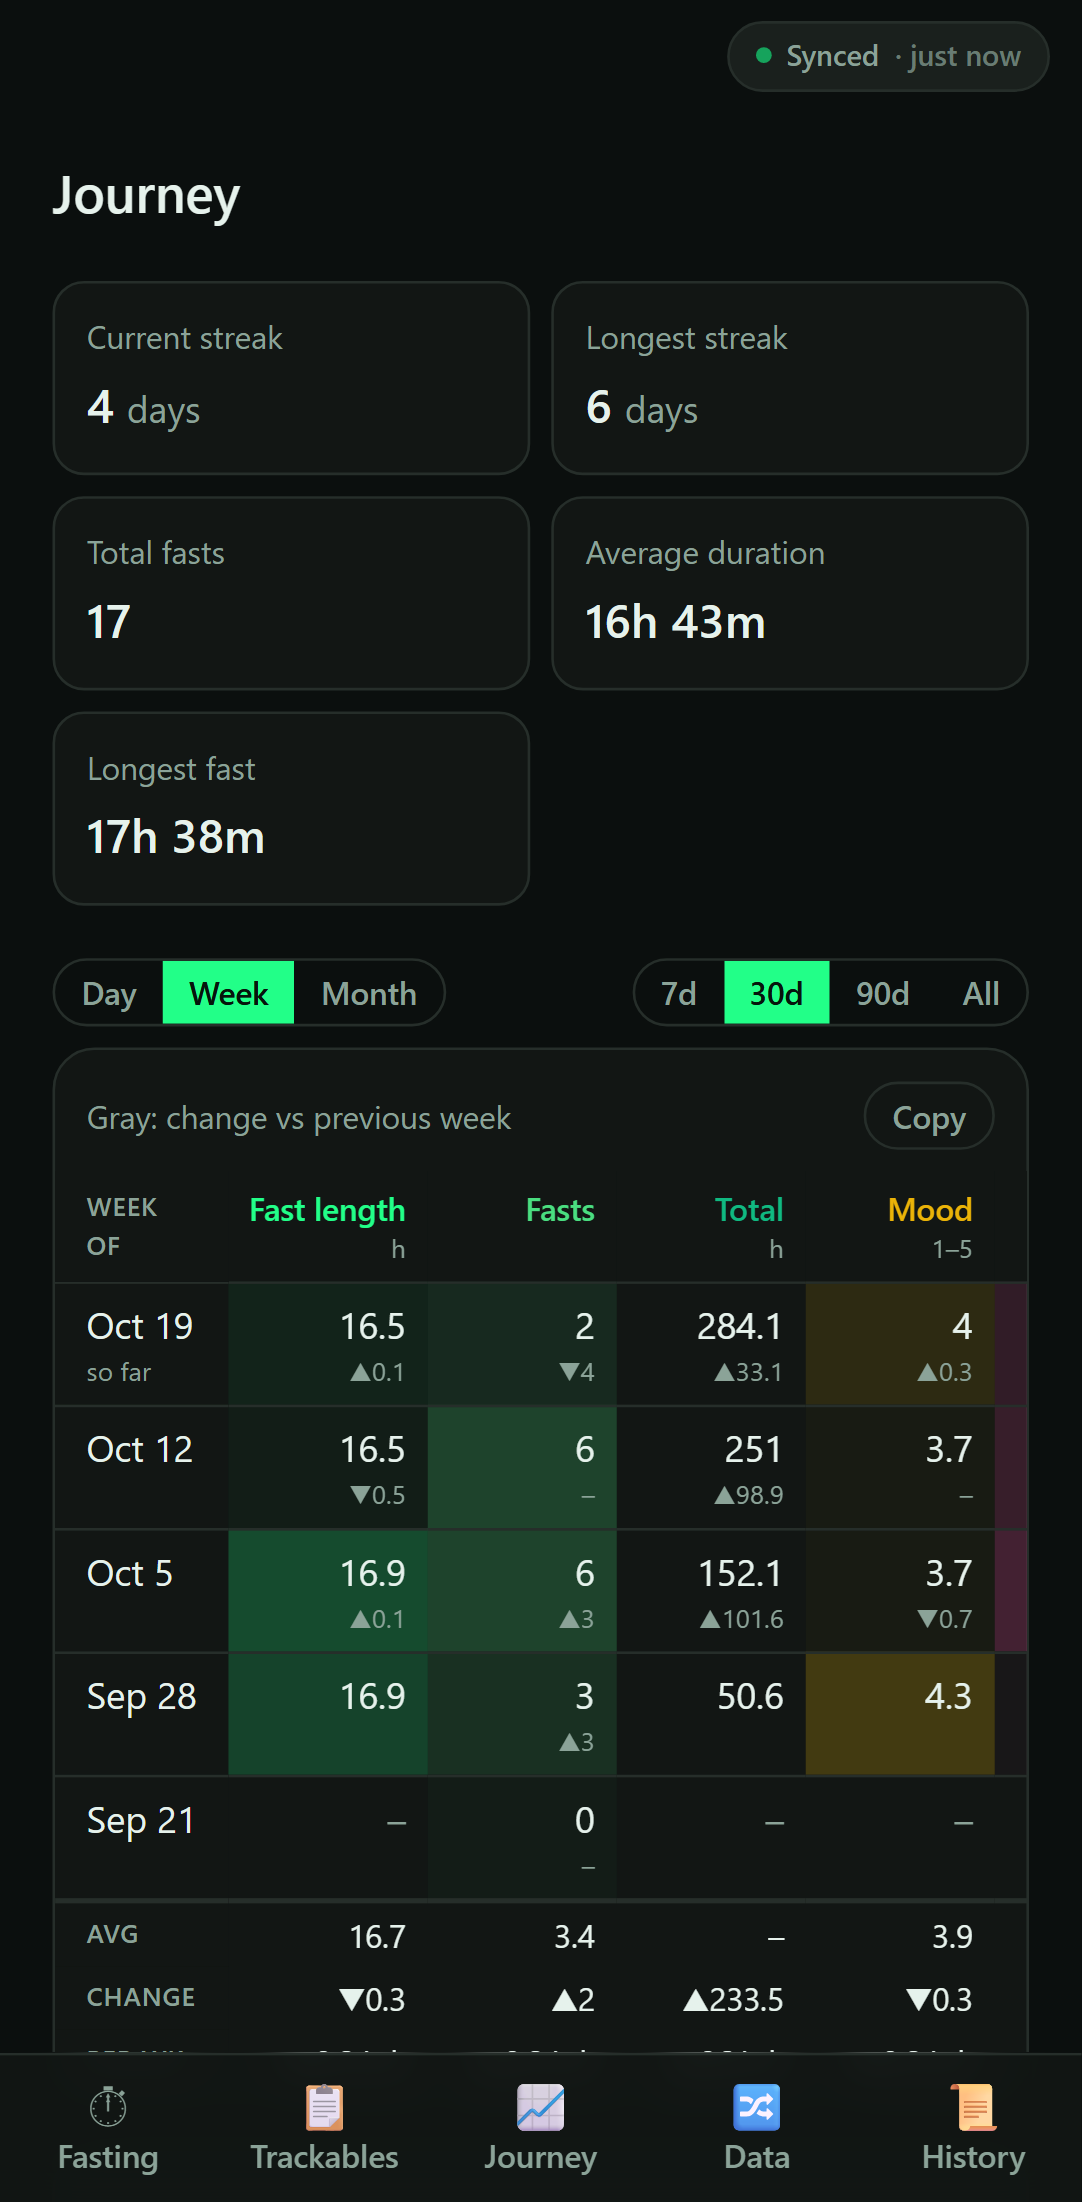
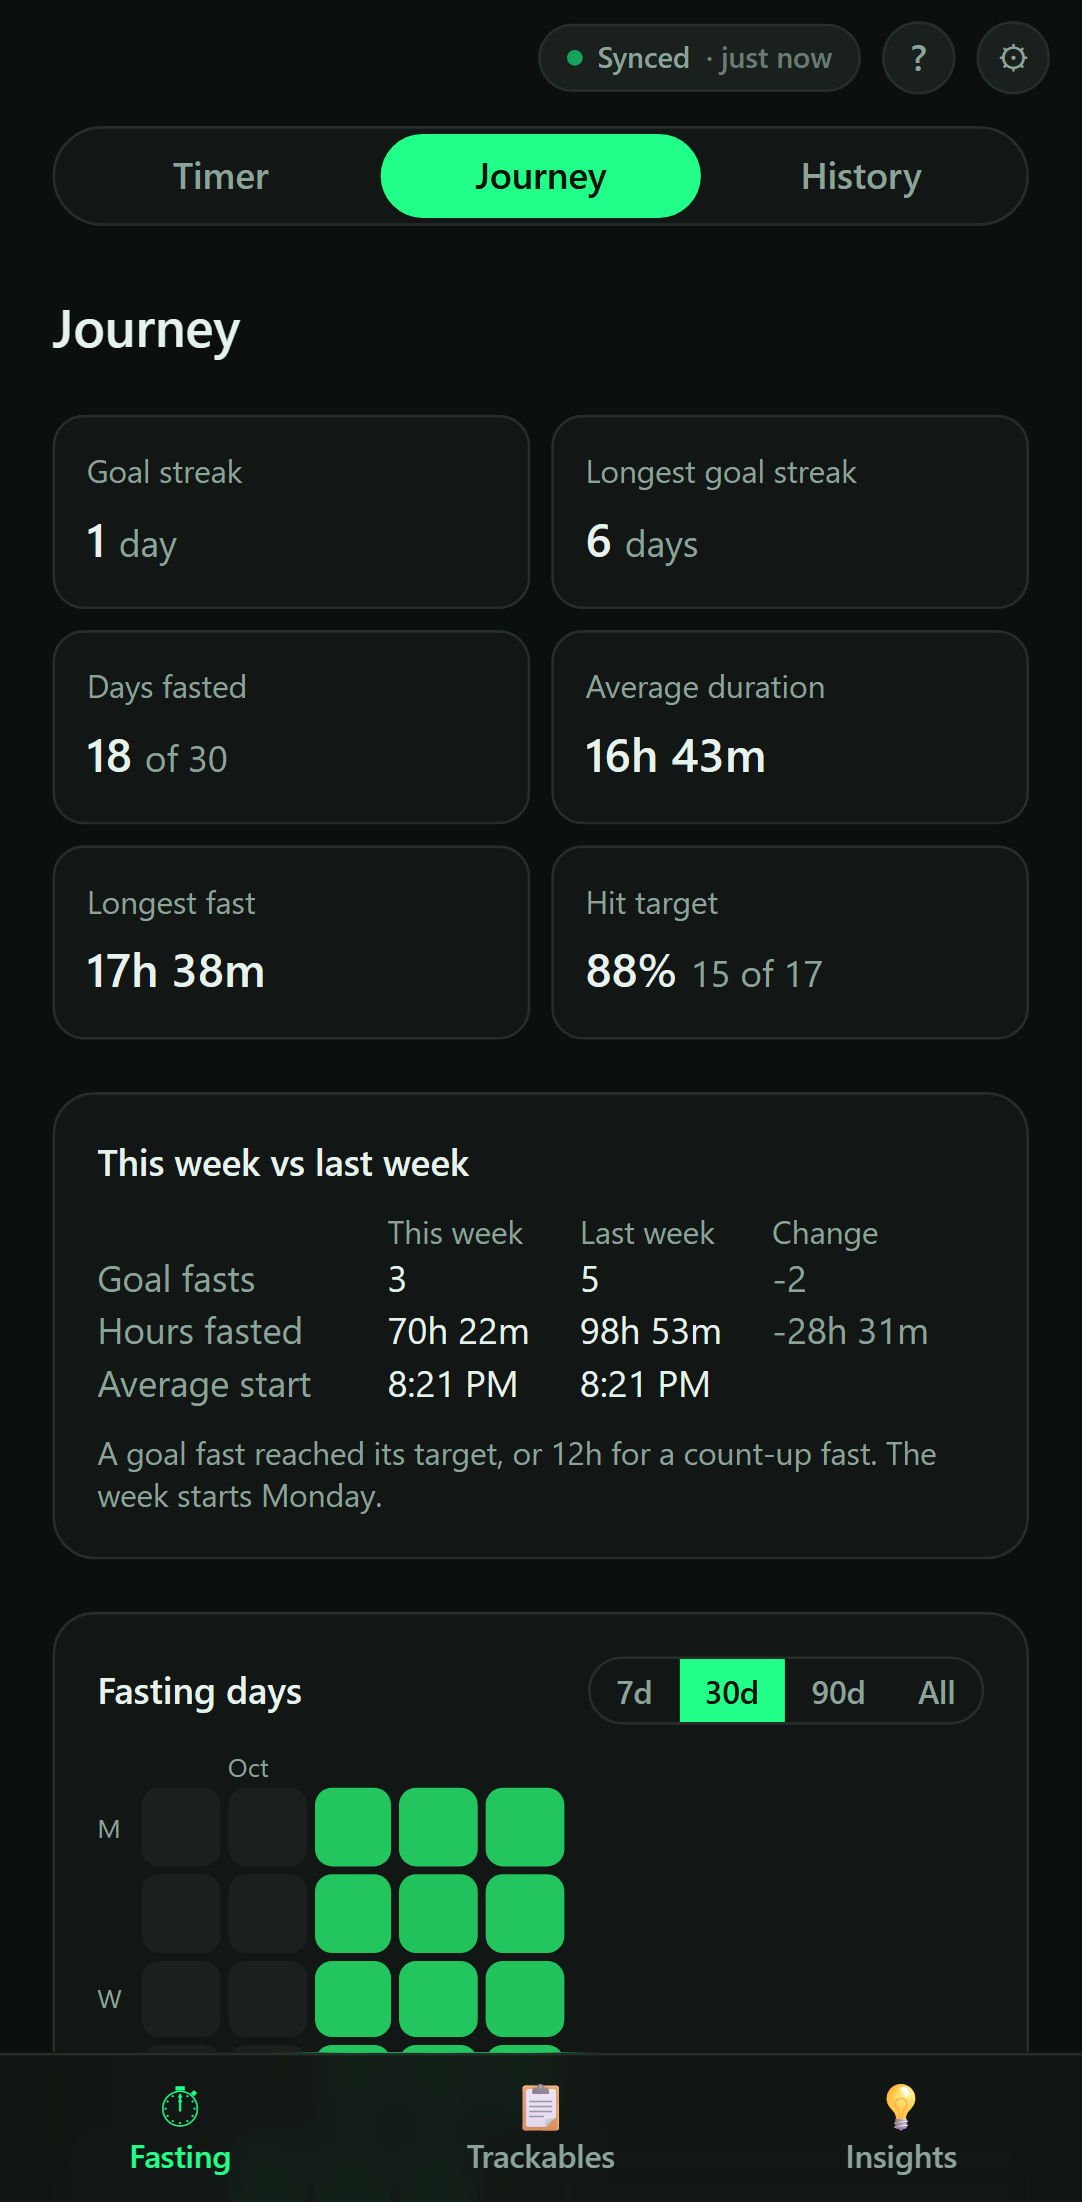
docs(readme): refresh screenshots for three tabs, Dates and Insights
The README screenshots showed the five-tab app. Retaken from sample data
with npm run screenshots: the timer, Journey, Trackables, trends, and new
Dates and Insights shots. The capture dismisses the milestone banner and
scrolls the trends shot to its table.

diff --git a/e2e/screenshots.capture.ts b/e2e/screenshots.capture.ts
@@ -21,8 +21,11 @@ test('capture README screenshots', async ({ page }) => {
   await page.goto('/');
   await page.reload();
 
-  await expect(page.getByText(/Synced/)).toBeVisible();
+  await expect(page.getByRole('button', { name: /Synced/ }).locator('visible=true')).toBeVisible();
   await expect(page.getByRole('button', { name: /End|Stop/ }).first()).toBeVisible();
+  // Normal use, not a reminder: dismiss the milestone banner (and with it the tab's dot).
+  const dismiss = page.getByRole('button', { name: 'Dismiss milestone' });
+  if (await dismiss.isVisible()) await dismiss.click();
   await shot(page, 'fasting');
 
   await page.goto('/#/trackables');
@@ -31,11 +34,51 @@ test('capture README screenshots', async ({ page }) => {
 
   await page.getByText('Body Measurements', { exact: true }).click();
   await expect(page.getByRole('columnheader', { name: /Weight/ }).first()).toBeVisible();
+  // The trends table is below the summary: scroll to it.
+  await page.getByText('Trends', { exact: true }).first().evaluate((el) => el.scrollIntoView({ block: 'start' }));
   await shot(page, 'trackable-trends');
 
   await page.goto('/#/journey');
-  await expect(page.getByText('Total fasts')).toBeVisible();
-  // Three weeks of sample data: the 30-day range fills the table.
-  await page.getByRole('button', { name: '30d', exact: true }).click();
+  await expect(page.getByText('Goal streak', { exact: true })).toBeVisible();
+  // Three weeks of sample data: the 30-day range fills the grid.
+  await page.getByRole('button', { name: '30d', exact: true }).first().click();
   await shot(page, 'journey');
+
+  await page.goto('/#/insights');
+  await expect(page.getByRole('region', { name: 'Overview' })).toBeVisible();
+  await shot(page, 'insights');
+
+  // Dates: fictional birthdays and anniversaries, and the US holiday pack.
+  const fromToday = (days: number, years: number) =>
+    page.evaluate(
+      ([d, y]) => {
+        const t = new Date();
+        t.setFullYear(t.getFullYear() - y);
+        t.setDate(t.getDate() + d);
+        const pad = (n: number) => String(n).padStart(2, '0');
+        return `${t.getFullYear()}-${pad(t.getMonth() + 1)}-${pad(t.getDate())}`;
+      },
+      [days, years],
+    );
+  for (const template of [/US holidays$/, /Birthdays$/]) {
+    await page.goto('/#/trackables');
+    await page.getByRole('button', { name: '+ New' }).click();
+    await page.getByRole('button', { name: template }).click();
+    await page.getByRole('button', { name: 'Save', exact: true }).click();
+    await expect(page.getByRole('button', { name: /^\+ Add/ })).toBeVisible();
+  }
+  for (const [name, days, years] of [
+    ['Alex', 9, 34],
+    ['Jordan', 23, 61],
+    ['Sam', 40, 8],
+  ] as const) {
+    await page.getByRole('button', { name: '+ Add person' }).click();
+    await page.getByRole('textbox', { name: 'Name' }).fill(name);
+    await page.getByLabel('Birthdate').fill(await fromToday(days, years));
+    await page.getByRole('button', { name: 'Save', exact: true }).click();
+    await expect(page.getByRole('button', { name: 'Save', exact: true })).toHaveCount(0);
+  }
+  await page.goto('/#/dates');
+  await expect(page.getByRole('heading', { name: 'Dates', level: 1 })).toBeVisible();
+  await shot(page, 'dates');
 });

diff --git a/README.md b/README.md
@@ -6,10 +6,12 @@
 [![License: MIT](https://img.shields.io/badge/License-MIT-blue.svg)](LICENSE)
 
 <p>
-  <img src="docs/screenshots/fasting.png" alt="Fasting timer with a 16:8 fast in progress and the current metabolic zone" width="200">
-  <img src="docs/screenshots/trackables.png" alt="Trackables list showing when each was last logged" width="200">
-  <img src="docs/screenshots/trackable-trends.png" alt="Body Measurements trends table with weekly weight, BMI and waist" width="200">
-  <img src="docs/screenshots/journey.png" alt="Journey with fasting streaks and a weekly fasting table" width="200">
+  <img src="docs/screenshots/fasting.png" alt="Fasting timer with a 16:8 fast past its goal, its start, goal and next zone, and the current zone" width="200">
+  <img src="docs/screenshots/journey.png" alt="Journey with goal streaks, this week against last, and the fasting days grid" width="200">
+  <img src="docs/screenshots/trackables.png" alt="Trackables list showing each one's latest value or when it was last logged" width="200">
+  <img src="docs/screenshots/trackable-trends.png" alt="Body Measurements trends table with weekly weight, BMI and body fat" width="200">
+  <img src="docs/screenshots/dates.png" alt="Dates list with upcoming birthdays and US holidays and their countdowns" width="200">
+  <img src="docs/screenshots/insights.png" alt="Insights overview of fasting and each trackable over the last 30 days" width="200">
 </p>
 
 <sub>Fictional sample data, captured from the real app with <code>npm run screenshots</code>.</sub>
